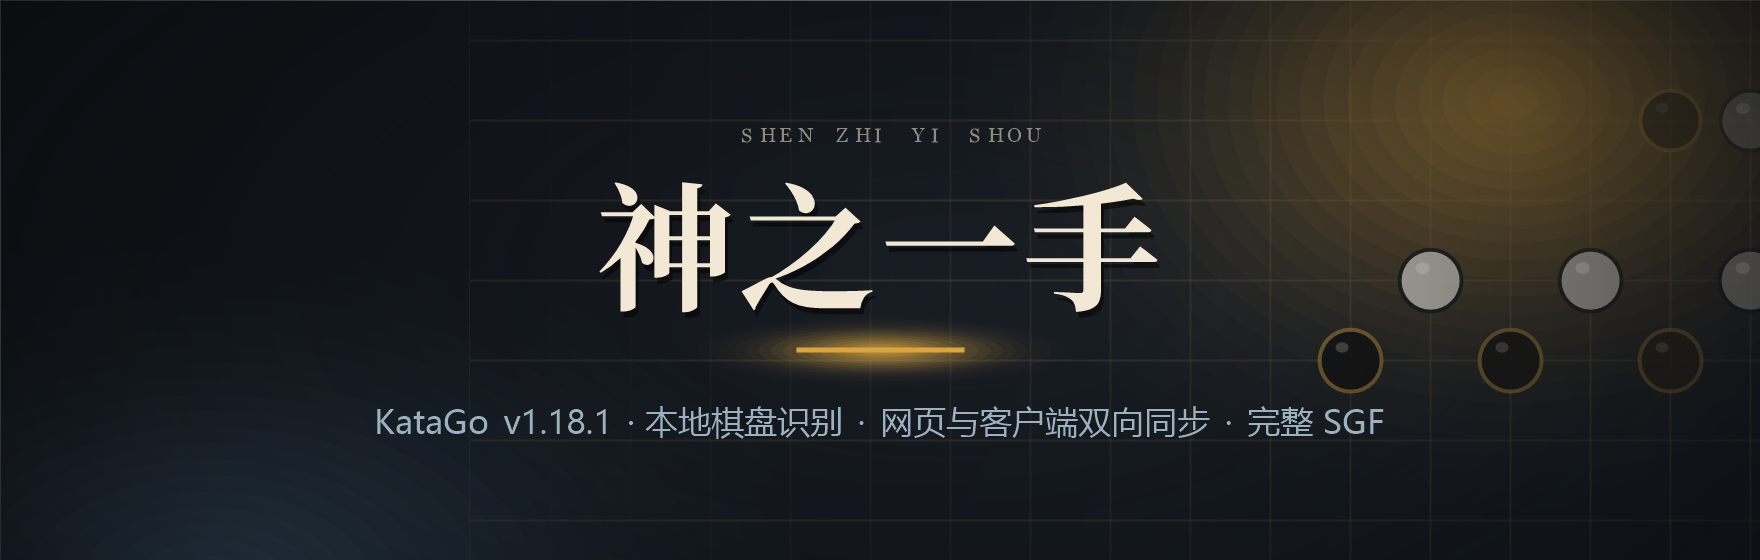
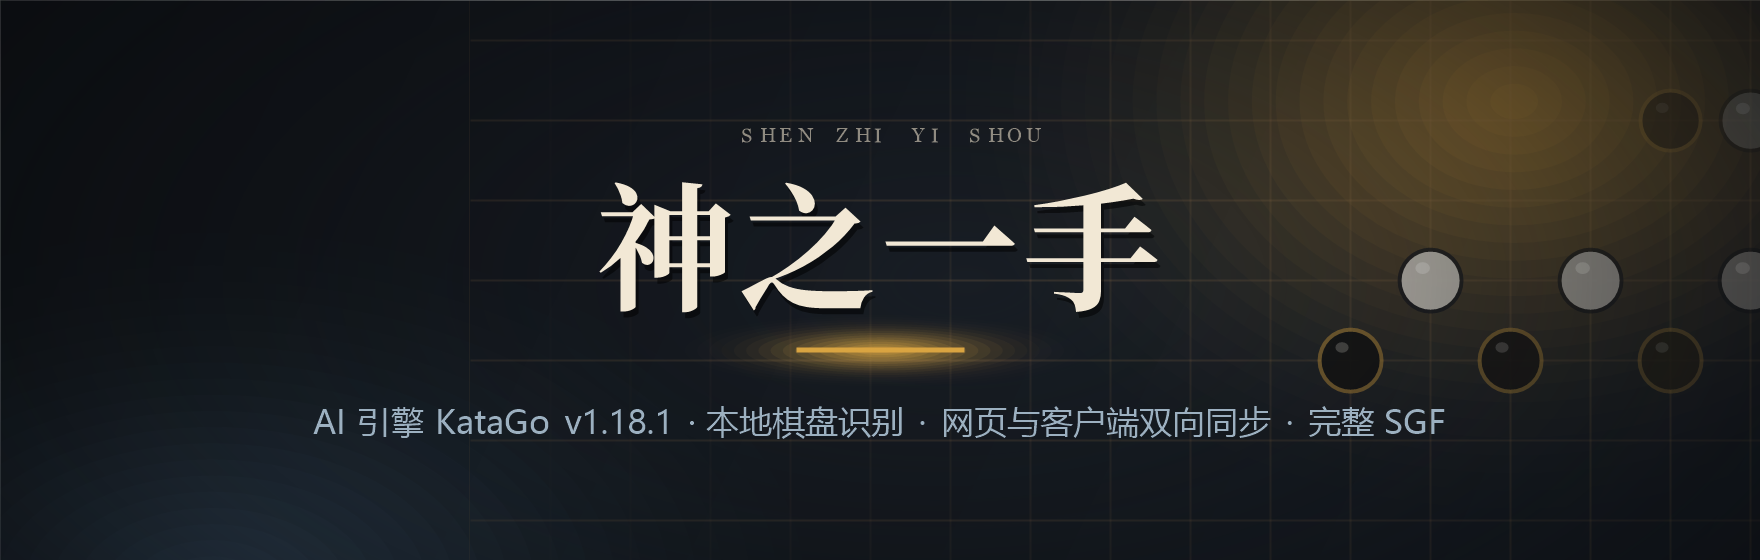
顶部突出 AI：题图副标题与简介都以 AI 打头，能力清单前三条改成 AI 对弈、AI 分析复盘、AI 模型可换，徽章加 ai 本地推理

Changed region(s): [[0.1562, 0.7286, 0.8438, 0.7893]]

diff --git a/README.md b/README.md
@@ -2,17 +2,19 @@
 
 <img src="docs/shots/banner.png" alt="神之一手" width="880">
 
-<a href="https://github.com/shimiei/shenzhiyishou/releases/latest"><img src="https://img.shields.io/badge/release-0.1.1-b8860b?style=flat-square&labelColor=1b2027" alt="最新发布 0.1.1"></a> <img src="https://img.shields.io/badge/platform-Windows%20x64-2b3138?style=flat-square&labelColor=1b2027" alt="Windows x64"> <img src="https://img.shields.io/badge/license-MIT-2b3138?style=flat-square&labelColor=1b2027" alt="MIT 许可"> <img src="https://img.shields.io/badge/engine-KataGo%201.18.1-2b3138?style=flat-square&labelColor=1b2027" alt="KataGo 1.18.1"> <img src="https://img.shields.io/badge/electron-33-2b3138?style=flat-square&labelColor=1b2027" alt="Electron 33"> <img src="https://img.shields.io/badge/tests-709%20assertions-2b3138?style=flat-square&labelColor=1b2027" alt="709 项自测断言">
+<a href="https://github.com/shimiei/shenzhiyishou/releases/latest"><img src="https://img.shields.io/badge/release-0.1.1-b8860b?style=flat-square&labelColor=1b2027" alt="最新发布 0.1.1"></a> <img src="https://img.shields.io/badge/ai-%E6%9C%AC%E5%9C%B0%E6%8E%A8%E7%90%86-2b3138?style=flat-square&labelColor=1b2027" alt="AI 本地推理"> <img src="https://img.shields.io/badge/engine-KataGo%201.18.1-2b3138?style=flat-square&labelColor=1b2027" alt="KataGo 1.18.1"> <img src="https://img.shields.io/badge/platform-Windows%20x64-2b3138?style=flat-square&labelColor=1b2027" alt="Windows x64"> <img src="https://img.shields.io/badge/license-MIT-2b3138?style=flat-square&labelColor=1b2027" alt="MIT 许可"> <img src="https://img.shields.io/badge/tests-709%20assertions-2b3138?style=flat-square&labelColor=1b2027" alt="709 项自测断言">
 
 </div>
 
 # 神之一手
 
-Windows 桌面围棋程序，全本地运行，不需要联网也不需要账号。外壳是 Electron 33 + TypeScript + React，运行时零第三方依赖；引擎是随包分发的 KataGo v1.18.1，由自写的 GTP 客户端驱动；棋盘识别是一条本地实现的机器视觉管线，不依赖联网模型；内置浏览器与程序之外的原生客户端窗口都能与本地局面双向同步落子；棋谱按完整 SGF 编辑。
+Windows 桌面围棋程序。AI 与全部功能都在本地运行，不需要联网、不需要账号，也不调用云端服务。外壳是 Electron 33 + TypeScript + React，运行时零第三方依赖；AI 来自随包分发的 KataGo v1.18.1，由自写的 GTP 客户端驱动，对局与分析分成两个引擎进程，双后端可切、网络可换；棋盘识别是一条本地实现的机器视觉管线；内置浏览器与程序之外的原生客户端窗口都能与本地局面双向同步落子；棋谱按完整 SGF 编辑。
 
 核心能力：
 
-- 引擎与棋力。KataGo v1.18.1，GTP over stdio。对局与分析运行在两个独立的引擎进程上，避免争夺同一块 GPU；OpenCL 与 eigenavx2（纯 CPU）双后端，启动时自动挑选。随包只带 4.7 MB 的 b6c96，b18c384nbt（93 MB，约 2630 万参数）、b28c512nbt（259 MB）与人类棋风网络 humanv0 可在程序内下载或从磁盘导入，换网络自动重启引擎。
+- AI 对弈与提示。KataGo v1.18.1，GTP over stdio。三档对弈方式：辅助、人机、机机；辅助档下 AI 只提示、不代为落子，提示标明这一手属于哪一方以及胜率与目差，也可让 AI 固定执黑或执白。对局与分析运行在两个独立的引擎进程上，避免争夺同一块 GPU；OpenCL 与 eigenavx2（纯 CPU）双后端，启动时自动挑选。
+- AI 分析与复盘。实时分析给出胜率、目差与候选点，局面变化时上一局面的结论原地保留、新结论到达后整体替换，不会先清空再填回；复盘把一整局逐手算一遍，按亏损的胜率点分为恶手、失误与小失误，给出胜率曲线、推荐着点，以及人和机器各自平均亏多少。
+- AI 模型可换。随包只带 4.7 MB 的 b6c96；b18c384nbt（93 MB，约 2630 万参数）、b28c512nbt（259 MB）与人类棋风网络 humanv0 可在程序内下载或从磁盘导入，换网络自动重启引擎。
 - 规则与棋谱。自写规则引擎，覆盖提子、自杀、劫、超级劫、终局数子（中国规则与日本规则）；完整 SGF 编辑，支持变化图、注释与各类标记，棋谱树不可变，编辑全部经纯函数；每一手记录来源（human / ai），存盘保留，送引擎前移除。
 - 棋盘识别。本地机器视觉管线：木色定位、网格线检测、网格拟合、交点环形取样。木色画得很亮、白子画成灰球面的客户端同样能认（亮度之外另有一条色度判据），并保留一个可选的视觉大模型接口作为兜底。
 - 网页同步。内置多标签浏览器，定时截屏识别后与本地局面逐点比对，只接受"恰好差一手"，并把这多出来的一手用逐点试下的方式验证，提子与打劫都算得对。
